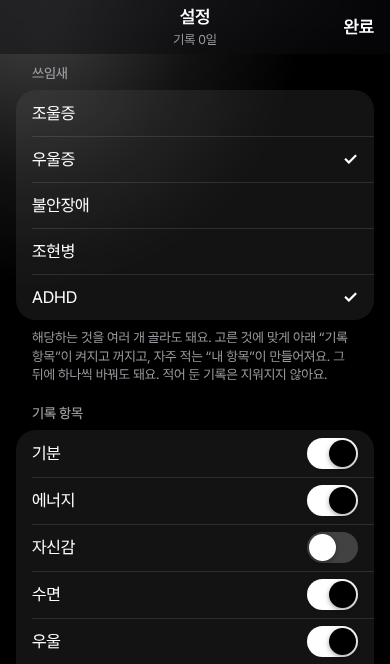
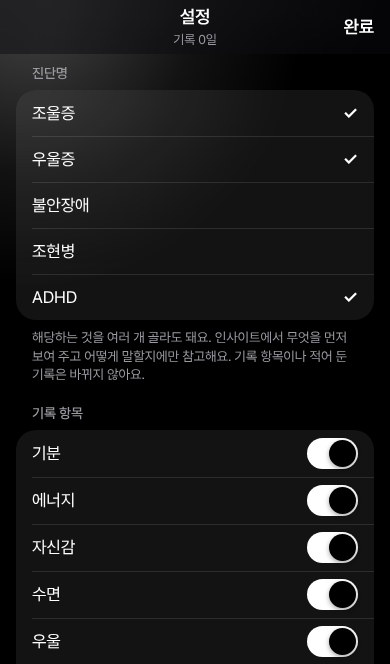
Tide: diagnoses only inform the insights
Choosing a diagnosis no longer switches record items off or creates items; it was the wrong use for it. The choice (still multi-select) now only guides the insights: comparisons related to a chosen diagnosis are ranked first, the word hypomania is used only when bipolar disorder is chosen, ADHD adds stimulant-day comparisons (energy, sleep that night, appetite) and schizophrenia adds psychotic symptoms on days without medication.

Claude-Session: https://claude.ai/code/session_01Du4KAy7crrN67i73oW7iBF

diff --git a/mood/js/analysis.js b/mood/js/analysis.js
@@ -1,9 +1,9 @@
 // 초기 신호 · 인사이트 · 진료용 요약 계산 (전부 이 폰 안에서)
-import { SIGNS, cafMg, customText, drinkText, fxName, fxNames, psyName, psyNames } from './constants.js';
+import { SIGNS, STIMULANTS, cafMg, customText, drinkText, fxName, fxNames, psyName, psyNames } from './constants.js';
 import { WD, addDays, durText, md, parse, today } from './dates.js';
 import { F, T } from './i18n.js';
 import { aided, medsFor, medsText } from './meds.js';
-import { customDefs, db } from './store.js';
+import { customDefs, db, usesOn } from './store.js';
 
 // ---------- 초기 신호 · 인사이트 (전부 이 폰 안에서 계산) ----------
 export const avg = (a) => (a.length ? a.reduce((x, y) => x + y, 0) / a.length : null);
@@ -108,7 +108,9 @@ export function recentState(entries = db.entries) {
   const isHigh = high.length >= 3, isLow = low.length >= 3, kind = isHigh && isLow ? 'mixed' : isHigh ? 'high' : isLow ? 'low' : 'even';
   const title = {
     mixed: T('최근 7일은 들뜬 모습과 가라앉은 모습이 함께 보여요.'),
-    high: psyDays ? T('최근 7일은 경조증·조증 때 흔히 보이는 모습과 겹치는 점이 많고, 정신병적 증상도 함께 적혀 있어요.') : T('최근 7일은 경조증 때 흔히 보이는 모습과 겹치는 점이 많아요.'),
+    // 조울증을 고르지 않았으면 '경조증'이라는 말은 쓰지 않고 보이는 것만 말한다
+    high: !usesOn().includes('bipolar') ? (psyDays ? T('최근 7일은 기분과 에너지가 높은 날이 많고, 정신병적 증상도 함께 적혀 있어요.') : T('최근 7일은 기분과 에너지가 높은 날이 많아요. 평소와 다르다면 진료 때 이야기해 보세요.'))
+      : psyDays ? T('최근 7일은 경조증·조증 때 흔히 보이는 모습과 겹치는 점이 많고, 정신병적 증상도 함께 적혀 있어요.') : T('최근 7일은 경조증 때 흔히 보이는 모습과 겹치는 점이 많아요.'),
     low: psyDays ? T('최근 7일은 우울 삽화 때 흔히 보이는 모습과 겹치는 점이 많고, 정신병적 증상도 함께 적혀 있어요.') : T('최근 7일은 우울 삽화 때 흔히 보이는 모습과 겹치는 점이 많아요.'),
     even: psyDays ? T('최근 7일은 기분이 한쪽으로 뚜렷하게 기울지는 않았지만, 정신병적 증상이 적혀 있어요.')
       : anxDays >= 4 ? T('최근 7일은 기분이 한쪽으로 뚜렷하게 기울지는 않았지만, 불안이 높은 날이 많아요.') : T('최근 7일은 한쪽으로 뚜렷하게 기운 모습이 보이지 않아요.'),
@@ -190,11 +192,13 @@ export function insights(entries = db.entries) {
   const dur = (m) => durText(Math.round(m)), num = (x) => x.toFixed(1);
   // 두 묶음(각 min일 이상)의 평균이 gap 이상 차이 나면 넣는다. say는 [앞쪽이 낮을 때 문장, 높을 때 문장], {0}에 차이가 들어간다.
   // unit은 "한 칸"의 크기(수면 60분, 점수 1점)로, 서로 다른 항목의 차이를 같은 잣대로 줄 세울 때 쓴다.
-  const compare = (key, a, b, labels, { min = 3, gap, fmt, unit }, say) => {
+  // dx: 이 비교가 특히 관련 있는 진단명들. 사용자가 고른 진단명과 겹치면 순서를 앞으로 당긴다 (1.5배).
+  const chosen = usesOn(), boost = (dx) => (dx && dx.some((k) => chosen.includes(k)) ? 1.5 : 1);
+  const compare = (key, a, b, labels, { min = 3, gap, fmt, unit, dx }, say) => {
     if (a.length < min || b.length < min) return;
     const x = mean(a, key), y = mean(b, key), d = Math.abs(x - y);
     if (d < gap || say[2] === (x < y ? 0 : 1)) return;
-    out.push({ text: F(say[x < y ? 0 : 1], fmt(d)), a: [labels[0], fmt(x), a.length], b: [labels[1], fmt(y), b.length], weight: d / unit });
+    out.push({ text: F(say[x < y ? 0 : 1], fmt(d)), a: [labels[0], fmt(x), a.length], b: [labels[1], fmt(y), b.length], weight: d / unit * boost(dx) });
   };
   const sleep = { gap: 20, fmt: dur, unit: 60 }, score = { gap: 0.8, fmt: num, unit: 1 }, days = [T('그런 날'), T('다른 날')];
   // 항목을 따로따로 적을 수 있어서 빈 값(null)이 섞여 있다. null은 비교에서 0처럼 굴기 때문에, 값이 있는 날만 골라서 나눈다.
@@ -203,14 +207,29 @@ export function insights(entries = db.entries) {
   const night = (e) => entries[addDays(e.date, 1)];   // 그날 밤의 잠과 다음 날 기분은 다음 날 기록에 있다
 
   // 잠과 에너지·기분
-  compare('energy', slE.filter((e) => e.sleepMin < 360), slE.filter((e) => e.sleepMin >= 360), [T('적게 잔 날'), T('다른 날')], score,
+  compare('energy', slE.filter((e) => e.sleepMin < 360), slE.filter((e) => e.sleepMin >= 360), [T('적게 잔 날'), T('다른 날')], { ...score, dx: ['bipolar'] },
     ['6시간보다 적게 잔 날은 에너지가 {0} 낮았어요.', '6시간보다 적게 잔 날은 에너지가 {0} 높았어요.', 0]);
-  compare('sleepMin', slE.filter((e) => e.energy >= 7), slE.filter((e) => e.energy < 7), days, sleep,
+  compare('sleepMin', slE.filter((e) => e.energy >= 7), slE.filter((e) => e.energy < 7), days, { ...sleep, dx: ['bipolar'] },
     ['에너지가 높았던 날은 전날 밤에 {0} 덜 잤어요.', '에너지가 높았던 날은 전날 밤에 {0} 더 잤어요.', 1]);
-  compare('sleepMin', slM.filter((e) => e.mood <= 3), slM.filter((e) => e.mood > 3), days, sleep,
+  compare('sleepMin', slM.filter((e) => e.mood <= 3), slM.filter((e) => e.mood > 3), days, { ...sleep, dx: ['depression', 'bipolar'] },
     ['기분이 가라앉은 날은 전날 밤에 {0} 덜 잤어요.', '기분이 가라앉은 날은 전날 밤에 {0} 더 잤어요.', 0]);
   compare('sleepMin', sl.filter((e) => e.tired), sl.filter((e) => !e.tired), days, sleep,
     ['일어났을 때 피곤했던 날은 {0} 덜 잤어요.', '일어났을 때 피곤했던 날은 {0} 더 잤어요.', 0]);
+  // 진단명을 골랐을 때만 넣는 비교들 (내 기록일 때만)
+  if (mine && chosen.includes('adhd') && db.meds.some((m) => STIMULANTS.includes(m.name))) {
+    const took = (e) => medsFor(e.date).some((m) => STIMULANTS.includes(m.name)), pair = [T('먹은 날'), T('안 먹은 날')], adhd = { dx: ['adhd'] };
+    compare('energy', ...[all.filter(has('energy'))].flatMap((l) => [l.filter(took), l.filter((e) => !took(e))]), pair, { ...score, ...adhd },
+      ['각성제를 먹은 날은 에너지가 {0} 낮았어요.', '각성제를 먹은 날은 에너지가 {0} 높았어요.']);
+    const nights = all.filter((e) => night(e) && night(e).sleepMin != null);
+    compare('sleepMin', nights.filter(took).map(night), nights.filter((e) => !took(e)).map(night), pair, { ...sleep, ...adhd },
+      ['각성제를 먹은 날 밤에는 {0} 덜 잤어요.', '각성제를 먹은 날 밤에는 {0} 더 잤어요.']);
+    compare('appetite', ...[all.filter(has('appetite'))].flatMap((l) => [l.filter(took), l.filter((e) => !took(e))]), pair, { ...score, gap: 1, ...adhd },
+      ['각성제를 먹은 날은 식욕이 {0} 낮았어요.', '각성제를 먹은 날은 식욕이 {0} 높았어요.']);
+  }
+  if (mine && chosen.includes('psychosis') && db.meds.length) {
+    compare('psy', all.filter((e) => !medsFor(e.date).length), all.filter((e) => medsFor(e.date).length), [T('안 먹은 날'), T('먹은 날')], { gap: 0.3, fmt: num, unit: 0.5, dx: ['psychosis'] },
+      ['약을 안 먹은 날은 정신병적 증상이 {0}가지 적었어요.', '약을 안 먹은 날은 정신병적 증상이 {0}가지 많았어요.']);
+  }
   // 약
   if (mine && db.meds.length) {
     compare('mood', withMood.filter((e) => !medsFor(e.date).length), withMood.filter((e) => medsFor(e.date).length), [T('안 먹은 날'), T('먹은 날')], score,
@@ -247,16 +266,16 @@ export function insights(entries = db.entries) {
   const level = { gap: 0.8, fmt: num, unit: 1 };
   const split = (list, test) => [list.filter(test), list.filter((e) => !test(e))];
   const isDep = (e) => e.dep >= 2, isAnx = (e) => e.anx >= 2, isPsy = (e) => e.psy >= 1, isSi = (e) => e.si >= 1;
-  compare('sleepMin', ...split(sl.filter(has('dep')), isDep), days, sleep, ['우울이 보통 이상인 날은 전날 밤에 {0} 덜 잤어요.', '우울이 보통 이상인 날은 전날 밤에 {0} 더 잤어요.']);
-  compare('sleepMin', ...split(sl.filter(has('anx')), isAnx), days, sleep, ['불안이 보통 이상인 날은 전날 밤에 {0} 덜 잤어요.', '불안이 보통 이상인 날은 전날 밤에 {0} 더 잤어요.', 0]);
-  compare('sleepMin', ...split(sl, isPsy), days, sleep, ['정신병적 증상이 있던 날은 전날 밤에 {0} 덜 잤어요.', '정신병적 증상이 있던 날은 전날 밤에 {0} 더 잤어요.', 0]);
+  compare('sleepMin', ...split(sl.filter(has('dep')), isDep), days, { ...sleep, dx: ['depression', 'bipolar'] }, ['우울이 보통 이상인 날은 전날 밤에 {0} 덜 잤어요.', '우울이 보통 이상인 날은 전날 밤에 {0} 더 잤어요.']);
+  compare('sleepMin', ...split(sl.filter(has('anx')), isAnx), days, { ...sleep, dx: ['anxiety'] }, ['불안이 보통 이상인 날은 전날 밤에 {0} 덜 잤어요.', '불안이 보통 이상인 날은 전날 밤에 {0} 더 잤어요.', 0]);
+  compare('sleepMin', ...split(sl, isPsy), days, { ...sleep, dx: ['psychosis'] }, ['정신병적 증상이 있던 날은 전날 밤에 {0} 덜 잤어요.', '정신병적 증상이 있던 날은 전날 밤에 {0} 더 잤어요.', 0]);
   compare('sleepMin', ...split(sl.filter(has('si')), isSi), days, sleep, ['죽고 싶은 생각이 있던 날은 전날 밤에 {0} 덜 잤어요.', '죽고 싶은 생각이 있던 날은 전날 밤에 {0} 더 잤어요.', 0]);
   const both = (a, b) => all.filter((e) => e[a] != null && e[b] != null);
-  compare('energy', ...split(all.filter(has('energy')), isPsy), days, score, ['정신병적 증상이 있던 날은 에너지가 {0} 낮았어요.', '정신병적 증상이 있던 날은 에너지가 {0} 높았어요.']);
-  compare('mood', ...split(withMood, isPsy), days, score, ['정신병적 증상이 있던 날은 기분이 {0} 낮았어요.', '정신병적 증상이 있던 날은 기분이 {0} 높았어요.']);
-  compare('dep', ...split(both('anx', 'dep'), isAnx), days, level, ['불안이 보통 이상인 날은 우울이 {0}단계 낮았어요.', '불안이 보통 이상인 날은 우울이 {0}단계 높았어요.', 1]);
-  compare('anx', ...split(all.filter(has('anx')), isPsy), days, level, ['정신병적 증상이 있던 날은 불안이 {0}단계 낮았어요.', '정신병적 증상이 있던 날은 불안이 {0}단계 높았어요.', 1]);
-  compare('caffeine', ...split(both('anx', 'caffeine'), isAnx), days, { ...score, gap: 1 }, ['불안이 보통 이상인 날은 카페인이 {0} 적었어요.', '불안이 보통 이상인 날은 카페인이 {0} 많았어요.', 1]);
+  compare('energy', ...split(all.filter(has('energy')), isPsy), days, { ...score, dx: ['psychosis'] }, ['정신병적 증상이 있던 날은 에너지가 {0} 낮았어요.', '정신병적 증상이 있던 날은 에너지가 {0} 높았어요.']);
+  compare('mood', ...split(withMood, isPsy), days, { ...score, dx: ['psychosis'] }, ['정신병적 증상이 있던 날은 기분이 {0} 낮았어요.', '정신병적 증상이 있던 날은 기분이 {0} 높았어요.']);
+  compare('dep', ...split(both('anx', 'dep'), isAnx), days, { ...level, dx: ['anxiety', 'depression'] }, ['불안이 보통 이상인 날은 우울이 {0}단계 낮았어요.', '불안이 보통 이상인 날은 우울이 {0}단계 높았어요.', 1]);
+  compare('anx', ...split(all.filter(has('anx')), isPsy), days, { ...level, dx: ['psychosis'] }, ['정신병적 증상이 있던 날은 불안이 {0}단계 낮았어요.', '정신병적 증상이 있던 날은 불안이 {0}단계 높았어요.', 1]);
+  compare('caffeine', ...split(both('anx', 'caffeine'), isAnx), days, { ...score, gap: 1, dx: ['anxiety'] }, ['불안이 보통 이상인 날은 카페인이 {0} 적었어요.', '불안이 보통 이상인 날은 카페인이 {0} 많았어요.', 1]);
   // 차이가 큰 것부터 여덟 개까지만 (많으면 다 비슷해 보인다)
   return out.sort((p, q) => q.weight - p.weight).slice(0, 8);
 }

diff --git a/mood/js/i18n.js b/mood/js/i18n.js
@@ -146,25 +146,23 @@ const DICT = {
   'AI에게 물어볼 글 복사 (최근 4주)': 'Copy text to ask an AI (last 4 weeks)',
   '인사이트': 'Insights',
   '기록 항목': 'Items to log',
-  '쓰임새': 'What I use this for',
+  '진단명': 'Diagnoses',
+  '해당하는 것을 여러 개 골라도 돼요. 인사이트에서 무엇을 먼저 보여 주고 어떻게 말할지에만 참고해요. 기록 항목이나 적어 둔 기록은 바뀌지 않아요.': 'Choose every one that applies. They only guide what the insights show first and how they are worded. Items and logged records are not changed.',
+  '각성제를 먹은 날은 에너지가 {0} 낮았어요.': 'On days with a stimulant, energy was {0} lower.',
+  '각성제를 먹은 날은 에너지가 {0} 높았어요.': 'On days with a stimulant, energy was {0} higher.',
+  '각성제를 먹은 날 밤에는 {0} 덜 잤어요.': 'On nights after a stimulant you slept {0} less.',
+  '각성제를 먹은 날 밤에는 {0} 더 잤어요.': 'On nights after a stimulant you slept {0} more.',
+  '각성제를 먹은 날은 식욕이 {0} 낮았어요.': 'On days with a stimulant, appetite was {0} lower.',
+  '각성제를 먹은 날은 식욕이 {0} 높았어요.': 'On days with a stimulant, appetite was {0} higher.',
+  '약을 안 먹은 날은 정신병적 증상이 {0}가지 적었어요.': 'On days without medication there were {0} fewer psychotic symptoms.',
+  '약을 안 먹은 날은 정신병적 증상이 {0}가지 많았어요.': 'On days without medication there were {0} more psychotic symptoms.',
+  '최근 7일은 기분과 에너지가 높은 날이 많고, 정신병적 증상도 함께 적혀 있어요.': 'Mood and energy were high on many of the last 7 days, and psychotic symptoms are logged too.',
+  '최근 7일은 기분과 에너지가 높은 날이 많아요. 평소와 다르다면 진료 때 이야기해 보세요.': 'Mood and energy were high on many of the last 7 days. If that is unusual for you, mention it at your appointment.',
   '조울증': 'Bipolar disorder',
   '우울증': 'Depression',
   '불안장애': 'Anxiety disorder',
   '조현병': 'Schizophrenia',
   '들뜸 체크리스트': 'Elevated-mood checklist',
-  '밖에 나감': 'Went outside',
-  '즐거웠던 일이 있음': 'Something enjoyable',
-  '공황': 'Panic',
-  '회': 'times',
-  '피한 일이 있음': 'Avoided something',
-  '의욕': 'Motivation',
-  '사람을 만남': 'Saw people',
-  '집중': 'Focus',
-  '할 일을 끝냄': 'Finished a task',
-  '충동적으로 한 일': 'Did something on impulse',
-  '{0}에 맞춰 기록 항목을 바꿨어요': 'Items set for {0}',
-  '해당하는 것을 여러 개 골라도 돼요. 고른 것에 맞게 아래 “기록 항목”이 켜지고 꺼지고, 자주 적는 “내 항목”이 만들어져요. 그 뒤에 하나씩 바꿔도 돼요. 적어 둔 기록은 지워지지 않아요.': 'Choose every one that applies. The items below switch on or off to match and a few of “My items” are created. You can change any of them afterwards. Nothing you have logged is deleted.',
-  '기록 항목을 전부 켰어요': 'All items switched on',
   '최근 7일은 기분이 한쪽으로 뚜렷하게 기울지는 않았지만, 불안이 높은 날이 많아요.': 'Mood has not leaned clearly one way over the last 7 days, but anxiety was high on many days.',
   '내 항목': 'My items',
   '했음 · 안 했음': 'Done · not done',

diff --git a/mood/tests/smoke.js b/mood/tests/smoke.js
@@ -354,19 +354,14 @@ function seed() {
   await page.click('[data-act=pinOff]');
   check('잠금 끄기', !(await store()).settings.pin);
 
-  // 9. 쓰임새: 고르면 기록 항목이 거기에 맞게 바뀌고, 딸린 내 항목이 생긴다 (기록은 그대로)
-  const entriesKept = JSON.stringify((await store()).entries);
-  await page.click('[data-act=preset][data-p=bipolar]'); await page.click('[data-act=preset][data-p=adhd]');
+  // 9. 진단명: 여러 개 고를 수 있고, 고르기만 할 뿐 기록 항목·내 항목·기록은 건드리지 않는다
+  const before9 = JSON.stringify([(await store()).entries, (await store()).settings.off || [], (await store()).settings.custom || []]);
+  await page.click('[data-act=dx][data-p=depression]'); await page.click('[data-act=dx][data-p=adhd]');
   let st = (await store()).settings;
-  check('쓰임새를 ADHD로: 정신병적 증상·들뜸 체크리스트가 꺼지고 내 항목이 생김', st.use.join() === 'adhd' && st.off.includes('psy') && st.off.includes('signs') && st.custom.some((c) => c.type === 'scale')
-    && (await page.getAttribute('[data-act=item][data-k=psy]', 'aria-pressed')) === 'false' && JSON.stringify((await store()).entries) === entriesKept);
-  await page.click('[data-act=preset][data-p=depression]');
-  st = (await store()).settings;
-  check('쓰임새를 여러 개 고름 (ADHD + 우울증): 둘 다의 내 항목이 생기고, 둘 다 안 쓰는 항목만 꺼짐', st.use.length === 2 && st.off.includes('psy') && !st.off.includes('si')
-    && st.custom.filter((c) => c.type === 'check').length >= 4 && (await page.$$('[data-act=preset][aria-pressed=true]')).length === 2);
-  await page.click('[data-act=preset][data-p=bipolar]');
-  st = (await store()).settings;
-  check('조울증을 같이 고르면 조울증에 필요한 항목이 다시 켜짐', st.use.length === 3 && st.off.length === 0);
+  check('진단명을 여러 개 고름 (처음부터 켜져 있는 조울증 + 우울증 + ADHD)', st.use.join() === 'bipolar,depression,adhd' && (await page.$$('[data-act=dx][aria-pressed=true]')).length === 3);
+  check('진단명을 골라도 기록 항목·내 항목·기록은 그대로', JSON.stringify([(await store()).entries, st.off || [], st.custom || []]) === before9);
+  await page.click('[data-act=dx][data-p=bipolar]');
+  check('진단명을 다시 누르면 꺼짐', (await store()).settings.use.join() === 'depression,adhd');
   await page.click('[data-act=close]');
 
   await page.click('.btn[data-act=record]');

diff --git a/mood/js/main.js b/mood/js/main.js
@@ -1,10 +1,9 @@
 // 시작점: 누르기·입력 처리와 앱 시작
 import { aiSummary } from './analysis.js';
-import { ITEMS, PRESETS } from './constants.js';
 import { addDays, today } from './dates.js';
 import { $, app, closeSheet, copyText, enterApp, sheet, sheetOpen, toTop, toast } from './dom.js';
 import { exportData, giveFile, hasAlarms, importData, makeIcs, remind, snoozeBackup } from './files.js';
-import { F, T } from './i18n.js';
+import { T } from './i18n.js';
 import { lockNow, removePin, setPin } from './lock.js';
 import { addDose, medKey, medsFor, normDose, setMeds, sugHtml, toggleDoseTime } from './meds.js';
 import { render } from './render.js';
@@ -62,20 +61,11 @@ const actions = {
     ui.draft.fx[`c:${name}`] = true;
     $('#fx').innerHTML = fxHtml();
   },
-  // 설정: 쓰임새 고르기. 기록 항목을 그 쓰임새의 기본으로 맞추고, 딸린 내 항목 가운데 없는 것만 만든다.
-  preset: (el) => {
-    // 여러 개를 같이 고를 수 있다 (우울증과 ADHD가 같이 있는 경우처럼). 누를 때마다 켜지고 꺼진다.
-    const key = el.dataset.p, was = usesOn(), now = was.includes(key) ? was.filter((k) => k !== key) : [...was, key];
-    const chosen = PRESETS.filter(([k]) => now.includes(k));
-    db.settings.use = now;
-    // 고른 쓰임새 모두가 필요 없다고 하는 항목만 끈다 (하나라도 쓰면 켜 둔다)
-    db.settings.off = chosen.length ? ITEMS.map(([k]) => k).filter((k) => chosen.every(([, , off]) => off.includes(k))) : [];
-    const list = db.settings.custom || (db.settings.custom = []);
-    chosen.flatMap(([, , , items]) => items).forEach(([label, type, unit], i) => {
-      if (!list.some((c) => c.name === label)) list.push({ id: `u${Date.now().toString(36)}${i}`, name: label, type, unit: unit || '' });
-    });
+  // 설정: 진단명 고르기 (여러 개 가능). 인사이트에만 참고로 쓰이고 다른 것은 건드리지 않는다.
+  dx: (el) => {
+    const key = el.dataset.p, was = usesOn();
+    db.settings.use = was.includes(key) ? was.filter((k) => k !== key) : [...was, key];
     save(); render(); redrawSettings();
-    toast(chosen.length ? F('{0}에 맞춰 기록 항목을 바꿨어요', chosen.map(([, name]) => name).join(' · ')) : T('기록 항목을 전부 켰어요'));
   },
   // 내 항목: 0~10 값을 다시 비우기 (기록 화면), 새 항목 종류 고르기 · 더하기 · 지우기 (설정)
   customClear: (el) => {

diff --git a/mood/js/constants.js b/mood/js/constants.js
@@ -18,15 +18,11 @@ export const ITEMS = [
   ['period', T('생리')], ['appetite', T('식욕')], ['caffeine', T('카페인')], ['meds', T('약')],
   ['fx', T('부작용')], ['signs', T('들뜸 체크리스트')], ['note', T('메모')],
 ];
-// 쓰임새: 해당하는 것을 여러 개 고를 수 있다. 고른 것에 맞게 기록 항목을 켜고 끄고(모두가 안 쓰는 항목만 끈다), 자주 적는 "내 항목"을 만들어 준다. 그 뒤에는 하나씩 바꿀 수 있다.
-// [열쇠, 이름, 꺼 둘 항목들, 만들어 줄 내 항목들 [이름, 종류, 단위]]
-export const PRESETS = [
-  ['bipolar', T('조울증'), [], []],
-  ['depression', T('우울증'), ['conf', 'signs', 'psy'], [[T('밖에 나감'), 'check'], [T('즐거웠던 일이 있음'), 'check']]],
-  ['anxiety', T('불안장애'), ['conf', 'signs', 'psy'], [[T('공황'), 'number', T('회')], [T('피한 일이 있음'), 'check']]],
-  ['psychosis', T('조현병'), ['conf', 'signs'], [[T('의욕'), 'scale'], [T('사람을 만남'), 'check']]],
-  ['adhd', 'ADHD', ['conf', 'signs', 'psy'], [[T('집중'), 'scale'], [T('할 일을 끝냄'), 'check'], [T('충동적으로 한 일'), 'check']]],
-];
+// 진단명: 해당하는 것을 여러 개 고를 수 있다 (settings.use). 인사이트에서 무엇을 먼저 보여 주고 어떻게 말할지에만 참고한다.
+// 기록 항목을 켜고 끄는 데에는 쓰지 않는다 (그렇게 만들었다가 사용자가 뺐다, 2026-11-13).
+export const DIAGNOSES = [['bipolar', T('조울증')], ['depression', T('우울증')], ['anxiety', T('불안장애')], ['psychosis', T('조현병')], ['adhd', 'ADHD']];
+// 각성제 (ADHD 약). ADHD를 골랐을 때 먹은 날과 안 먹은 날을 견준다.
+export const STIMULANTS = ['콘서타', '메디키넷', '페니드', '비스펜틴'];
 // 부작용: 그날 겪은 것을 눌러서 적는다 (entry.fx = { 열쇠: true })
 // 목록에 없는 것은 직접 적어 넣을 수 있다: 열쇠가 'c:이름'이고, 적어 넣은 이름들은 settings.fxCustom에 남아 다음에도 딱지로 뜬다.
 export const SIDE_EFFECTS = [

diff --git a/mood/js/views/settings.js b/mood/js/views/settings.js
@@ -1,6 +1,6 @@
 // 설정 화면
 import { VERSION } from '../config.js';
-import { CUSTOM_TYPES, DISCLAIMER, FONTS, ITEMS, PRESETS, SIZES } from '../constants.js';
+import { CUSTOM_TYPES, DIAGNOSES, DISCLAIMER, FONTS, ITEMS, SIZES } from '../constants.js';
 import { esc, sheet, showSheet } from '../dom.js';
 import { daysSinceBackup, remind } from '../files.js';
 import { EN, F, T } from '../i18n.js';
@@ -43,9 +43,9 @@ export function openSettings() {
       pick('color', `data-color-pick="${k}"`, accentKey() === k, `<i class="sw-dot" style="background:rgb(${ACCENTS[k][isLight() ? 2 : 1]})"></i>${T(ACCENTS[k][0])}`)).join('')}</section>
     <p class="secnote">${T('기분·에너지·자신감이 낮은 날은 회색, 높을수록 고른 색으로 물들어요.')}</p>
 
-    <div class="sec">${T('쓰임새')}</div>
-    <section class="card list">${PRESETS.map(([k, label]) => pick('preset', `data-p="${k}"`, usesOn().includes(k), label)).join('')}</section>
-    <p class="secnote">${T('해당하는 것을 여러 개 골라도 돼요. 고른 것에 맞게 아래 “기록 항목”이 켜지고 꺼지고, 자주 적는 “내 항목”이 만들어져요. 그 뒤에 하나씩 바꿔도 돼요. 적어 둔 기록은 지워지지 않아요.')}</p>
+    <div class="sec">${T('진단명')}</div>
+    <section class="card list">${DIAGNOSES.map(([k, label]) => pick('dx', `data-p="${k}"`, usesOn().includes(k), label)).join('')}</section>
+    <p class="secnote">${T('해당하는 것을 여러 개 골라도 돼요. 인사이트에서 무엇을 먼저 보여 주고 어떻게 말할지에만 참고해요. 기록 항목이나 적어 둔 기록은 바뀌지 않아요.')}</p>
 
     <div class="sec">${T('기록 항목')}</div>
     <section class="card list">${ITEMS.map(([k, label]) => `<button type="button" class="li sw" data-act="item" data-k="${k}" aria-pressed="${itemOn(k)}"><span class="lk">${label}</span><i></i></button>`).join('')}</section>

diff --git a/mood/sw.js b/mood/sw.js
@@ -1,7 +1,7 @@
 // 오프라인에서도 열리도록 앱 파일을 저장해 둔다.
 // 인터넷이 될 때는 항상 최신 파일을 먼저 받아오고, 안 될 때만 저장본을 쓴다.
 // 앱 파일을 바꿔서 올릴 때마다 CACHE 숫자를 하나 올린다. js/ 에 파일을 더하면 JS 목록에도 더한다.
-const CACHE = 'tide-v74';
+const CACHE = 'tide-v75';
 const JS = ['main', 'config', 'i18n', 'constants', 'store', 'dates', 'theme', 'icons', 'dom', 'state', 'meds', 'analysis', 'sample', 'files', 'render', 'swipe', 'lock',
   'views/today', 'views/trend', 'views/insight', 'views/record', 'views/settings', 'views/clinic', 'views/notes'];
 const FILES = ['./', 'index.html', 'app.css', 'manifest.webmanifest',

diff --git a/mood/js/store.js b/mood/js/store.js
@@ -45,7 +45,7 @@ export const db = load();
 // 내 항목: 사용자가 설정에서 직접 만든 기록 항목들 [{ id, name, type, unit }]
 export const customDefs = () => db.settings.custom || [];
 
-// 고른 쓰임새들 (여러 개 가능. 한 번도 안 골랐으면 조울증. 예전에는 하나만 글자로 저장했다)
+// 고른 진단명들 (여러 개 가능. 한 번도 안 골랐으면 조울증. 예전에는 하나만 글자로 저장했다)
 export const usesOn = () => { const u = db.settings.use; return Array.isArray(u) ? u : [u || 'bipolar']; };
 
 // 설정에서 꺼 둔 기록 항목인지 (settings.off에 열쇠가 있으면 꺼진 것. 없으면 전부 켜짐)

diff --git a/mood/js/config.js b/mood/js/config.js
@@ -2,4 +2,4 @@
 export const KEY = 'tide.v1', OLD_KEY = 'harugyeol.v1';
 
 // 설정 화면 맨 아래에 보이는 번호. 올릴 때마다 sw.js의 CACHE 숫자와 같이 하나 올린다.
-export const VERSION = 74;
+export const VERSION = 75;
